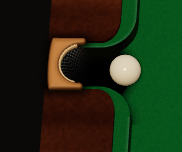
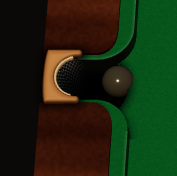
Night 4: final pocket pictures (5 of 6 pockets in the game, potted balls darken as they sink); report updated

diff --git a/docs/NIGHT-4.md b/docs/NIGHT-4.md
@@ -26,8 +26,10 @@ c. Seen vs physics: the drawn hole edge of all six pockets IS the physics drop c
    hole-vs-drop-circle.txt, difference < 1e-15 m) and the drawn jaws lie on the physics jaws (self-check in the code,
    throws otherwise). A potted ball now falls into the hole (keeps its speed, drops, and goes dark as it sinks; before it
    just vanished). Pictures with the dev test panel (forced Success / Rattle / In-off, playback frozen at the jaw touch
-   or 0.12 s after the drop): bench/results/night4/pockets/ (+ log.txt). See the log for which pockets were caught:
-   the solver rarely chooses the near (bottom) and some side pockets, so not every pocket/outcome pair turned up.
+   or 0.12 s after the drop): bench/results/night4/pockets/ (+ log.txt, each with a full-screen picture). Caught in the
+   final game: 5 of 6 pockets (top-left success + rattle, top-right success + rattle, middle-left in-off, middle-right
+   in-off, bottom-left success). NOT caught: bottom-right (the solver rarely plays into the near pockets; three
+   automatic runs of 160 shots each). For bottom-right only the geometry check above stands.
    Found and fixed on the way: a ball dropping at a middle pocket looked as if it stopped at the mouth (seen from above a
    sinking ball hardly changes) -> it now darkens as it sinks.
 d. Phone smoothness (bench/results/night4/frame-time.txt; 390x844, DPR 2, Chrome 4x CPU throttling, the same 3 rounds,
@@ -123,7 +125,6 @@ the RTP text moved into the Rules box (RTP per level). Pictures and the automati
   Failure length: median 2.14-2.17 s, 90% 2.58-2.89 s, longest 3.80 / 4.30 / 4.64 s; the longest are in-offs and rattles.
 
 ## Not done / open
-- Pocket pictures: not every pocket x outcome appeared in the automatic run (see pockets/log.txt); the geometry check
-  covers all six.
+- Pocket pictures: 5 of 6 pockets photographed in the game; bottom-right not (the geometry check covers all six).
 - The cue ON/OFF "200 rounds per level" proof is by code separation + the core replays, not a browser run.
 - Frame time measured on the PC with throttling, not on a real phone.
